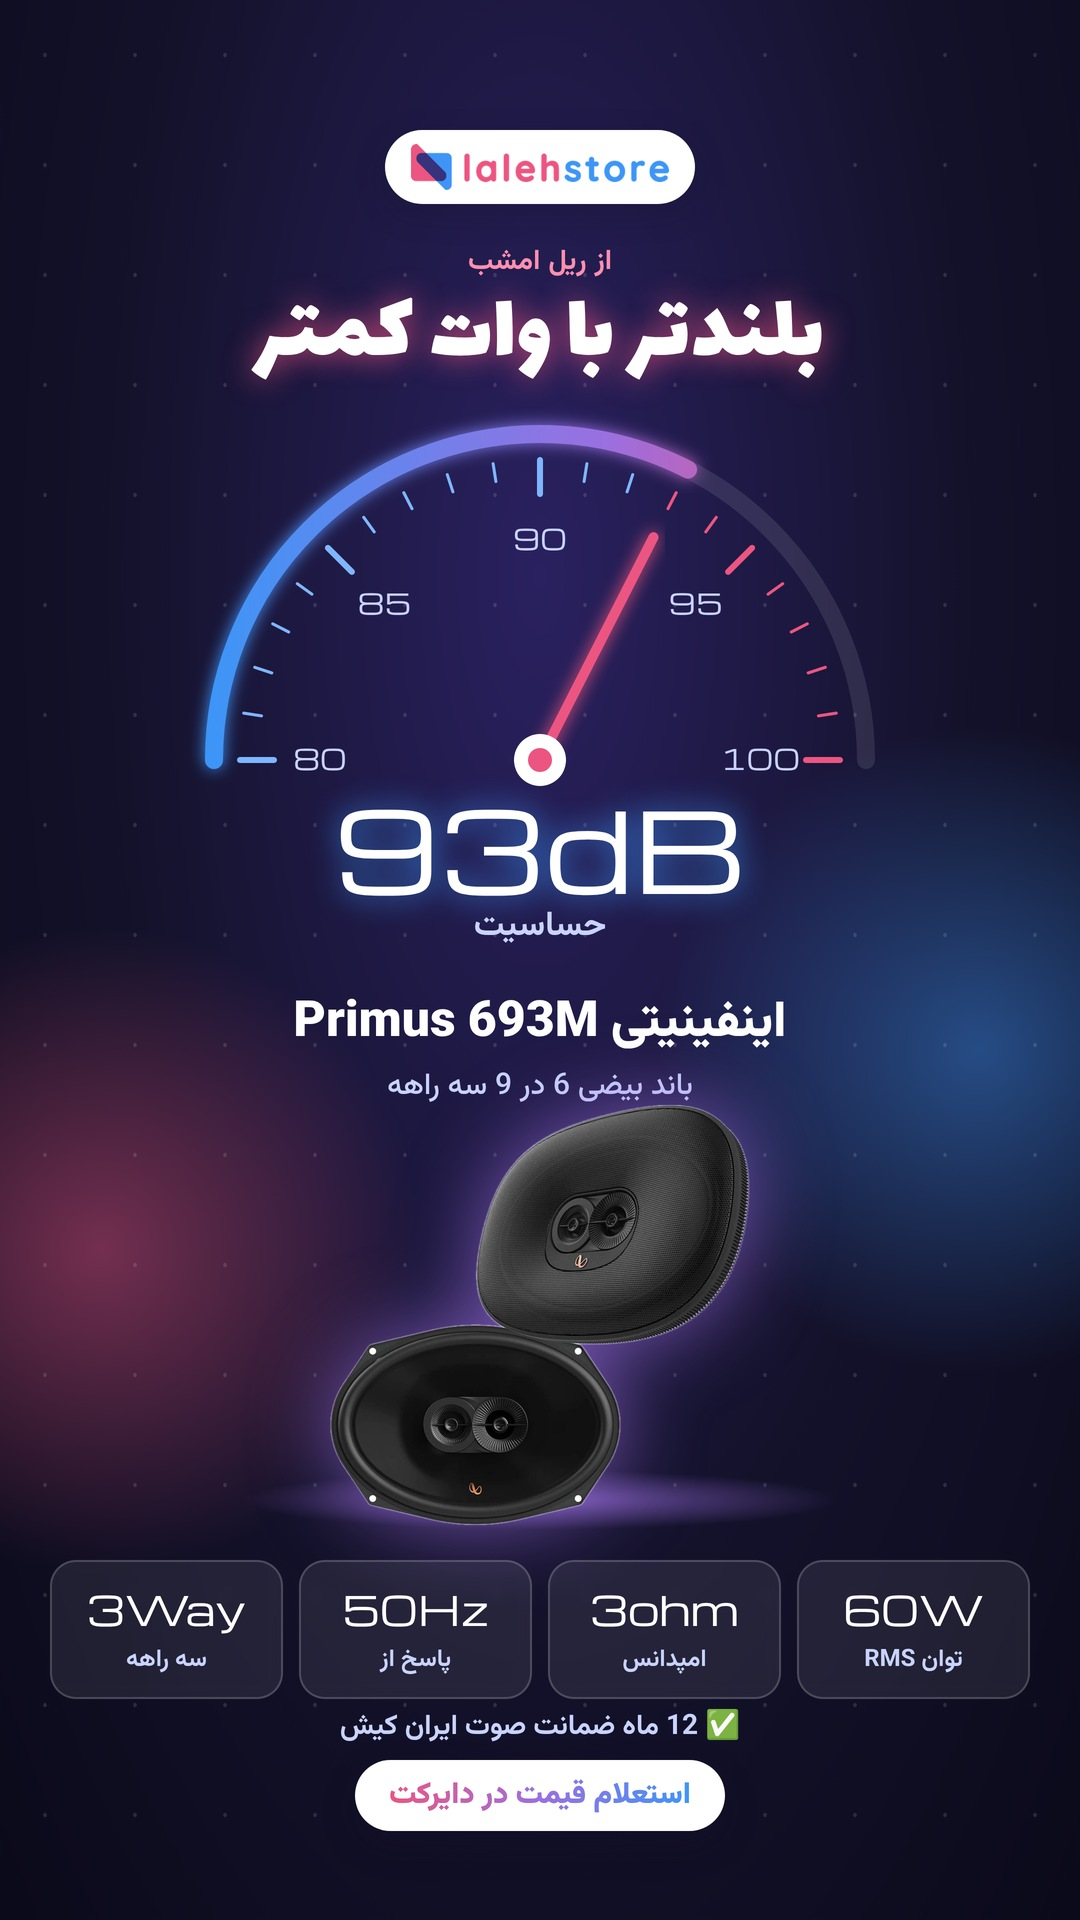
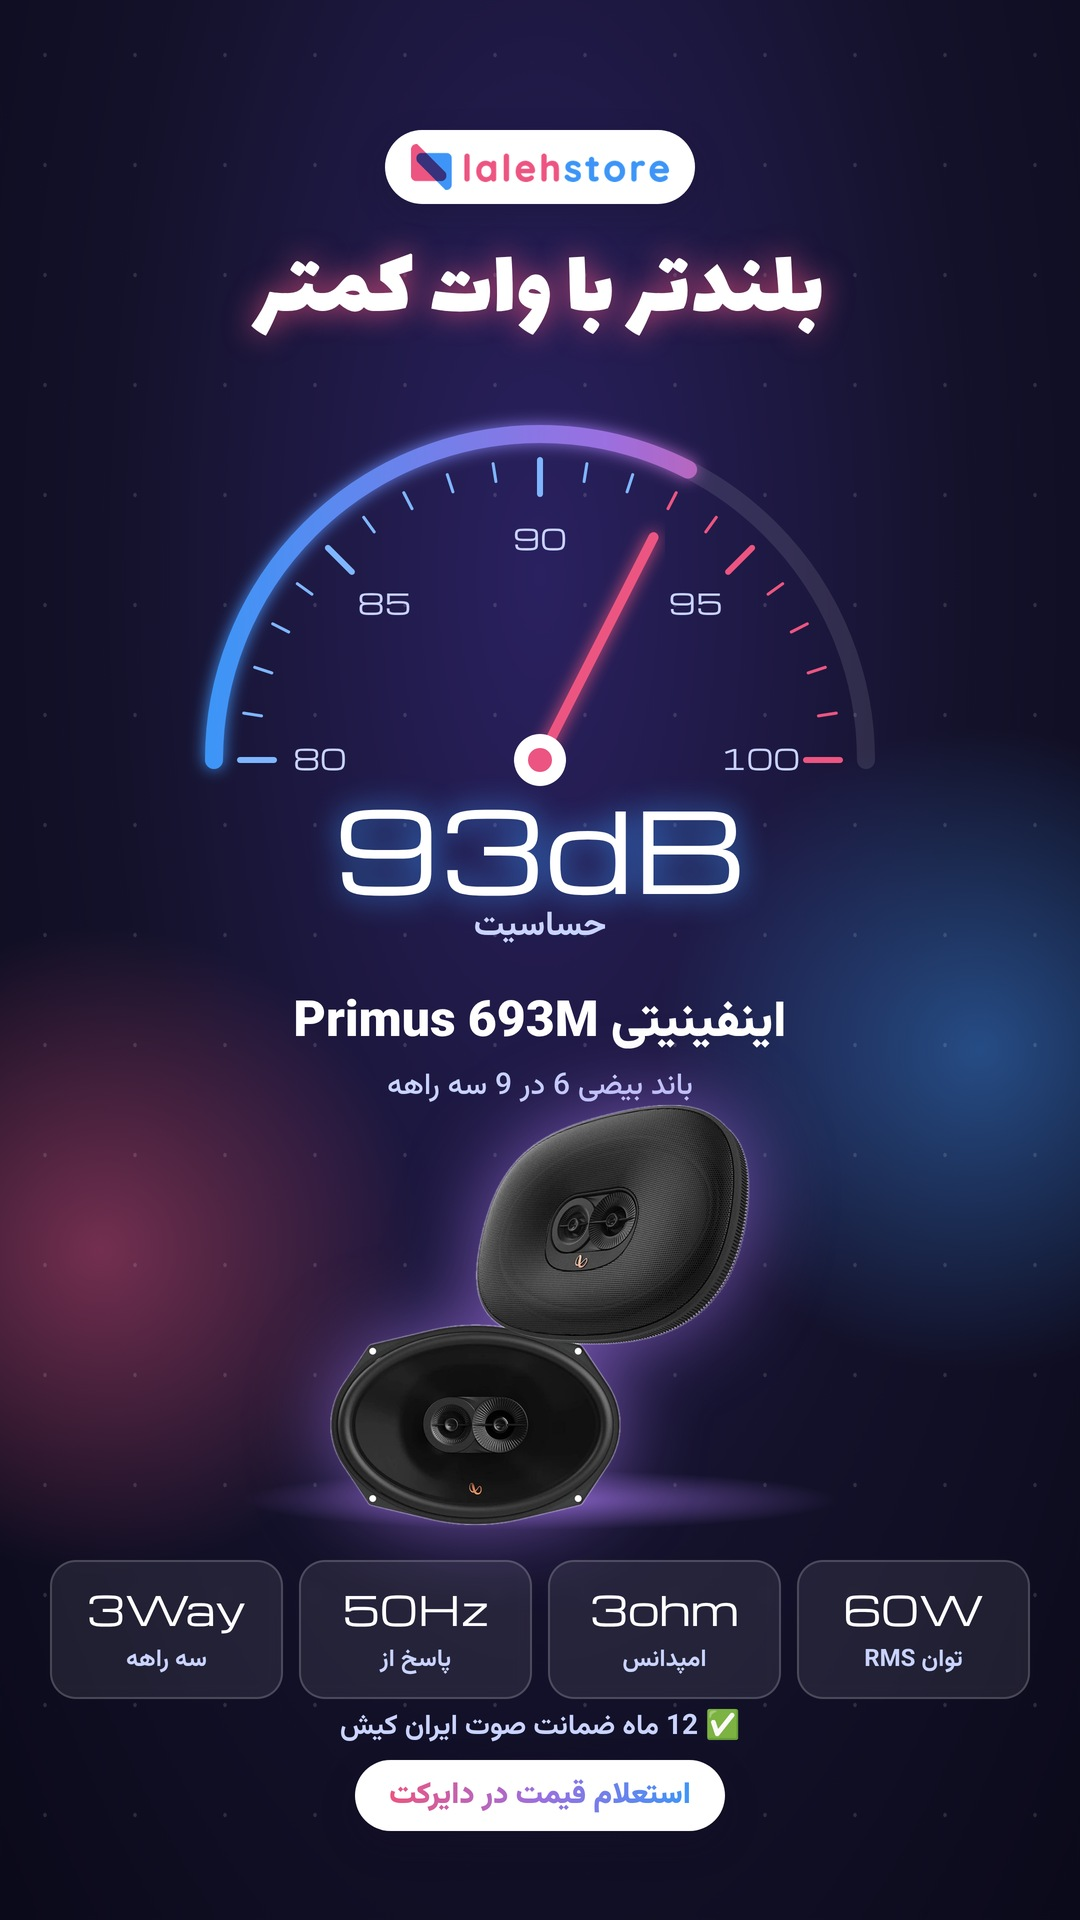
creative.py: no «از ریل امشب» tag, brand+model line on poster
Claude-Session: https://claude.ai/code/session_01MPeMabhRjJD1mwpHJnKS8t

Changed region(s): [[0.2139, 0.125, 0.7639, 0.2188]]

diff --git a/tools/creative.py b/tools/creative.py
@@ -13,7 +13,7 @@ each tied to the day's reel:
 Spec JSON:
 {
  "style": "poster" | "versus" | "night",
- "tag": "از ریل امشب",
+ "tag": "",               # optional small pill; leave empty (Mohammad 2026-11-15: no «از ریل امشب»)
  "headline": "بلندتر با وات کمتر",          # short, Persian, max ~4 words
  "sub": "باند بیضی 6 در 9 سه راهه",
  "products": [ {"img": "a.png", "brand": "اینفینیتی", "model": "Primus 693M",
@@ -107,14 +107,15 @@ def poster(sp, P):
 <div class="abs" style="width:1000px;height:1000px;border-radius:50%;right:-420px;bottom:-200px;background:radial-gradient(circle,rgba(20,18,43,.35),transparent 65%)"></div>
 <div class="grain"></div>
 {logo_bar(150)}
-<div class="abs" style="top:290px;left:0;right:0;text-align:center;color:#fff">
-  <span style="display:inline-block;border:3px solid #fff;border-radius:40px;padding:6px 26px;font-weight:700;font-size:30px">{t(sp.get("tag", ""))}</span>
-  <div style="font-family:L;font-size:150px;line-height:1.05;margin-top:18px;text-shadow:0 10px 30px rgba(20,18,43,.3)">{t(sp["headline"])}</div>
-  <div style="font-weight:700;font-size:38px;opacity:.95;margin-top:6px">{t(sp["sub"])}</div>
+<div class="abs" style="top:270px;left:0;right:0;text-align:center;color:#fff">
+  {('<span style="display:inline-block;border:3px solid #fff;border-radius:40px;padding:6px 26px;font-weight:700;font-size:30px">' + t(sp["tag"]) + "</span>") if sp.get("tag") else ""}
+  <div style="font-family:L;font-size:140px;line-height:1.05;margin-top:0;text-shadow:0 10px 30px rgba(20,18,43,.3)">{t(sp["headline"])}</div>
+  <div style="font-weight:900;font-size:46px;margin-top:4px">{t(p_brand(sp))}</div>
+  <div style="font-weight:700;font-size:32px;opacity:.9;margin-top:2px">{t(sp["sub"])}</div>
 </div>
 <div class="abs" style="top:640px;left:0;right:0;text-align:center;font-family:M;font-size:250px;line-height:1;
   color:transparent;-webkit-text-stroke:5px rgba(255,255,255,.75);letter-spacing:-6px;direction:ltr">{html.escape(big["v"])}</div>
-<div class="abs" style="top:600px;left:0;right:0;text-align:center"><span style="background:var(--ink);color:#fff;font-weight:900;font-size:32px;padding:6px 26px;border-radius:14px">{t(big["k"])}</span></div>
+<div class="abs" style="top:615px;left:0;right:0;text-align:center"><span style="background:var(--ink);color:#fff;font-weight:900;font-size:32px;padding:6px 26px;border-radius:14px">{t(big["k"])}</span></div>
 <img src="{p}" class="abs" style="left:250px;top:760px;width:580px;transform:rotate(-8deg);filter:drop-shadow(0 50px 50px rgba(20,18,43,.45))">
 <div class="abs" style="top:1345px;left:-60px;width:1200px;transform:rotate(-5deg);background:var(--ink);color:#fff;padding:14px 0;white-space:nowrap;overflow:hidden;font-family:M;font-size:30px;direction:ltr;letter-spacing:2px">{tick}</div>
 {stick}
@@ -144,7 +145,7 @@ def versus(sp, P):
 <div class="grain"></div>
 {logo_bar(140)}
 <div class="abs" style="top:250px;right:60px;color:#fff;text-align:right">
-  <div style="font-weight:700;font-size:30px;opacity:.9">{t(sp.get("tag", ""))}</div>
+  <div style="font-weight:700;font-size:30px;opacity:.9">{t(sp["tag"]) if sp.get("tag") else ""}</div>
   <div style="font-family:L;font-size:96px;line-height:1.05">{t(a["brand"])}</div>
   <div style="font-family:M;font-size:42px">{html.escape(a["model"])}</div></div>
 <img src="{P[0]}" class="abs" style="left:40px;top:250px;width:520px;transform:rotate(-10deg);filter:drop-shadow(0 30px 30px rgba(20,18,43,.4))">
@@ -202,7 +203,7 @@ def night(sp, P):
 <div class="abs" style="inset:0;background-image:radial-gradient(rgba(255,255,255,.5) 1.5px,transparent 2px);background-size:90px 110px;opacity:.25"></div>
 {logo_bar(130)}
 <div class="abs" style="top:240px;left:0;right:0;text-align:center;color:#fff">
-  <span style="font-weight:700;font-size:28px;color:#ff8fb0;letter-spacing:1px">{t(sp.get("tag", ""))}</span>
+  <span style="font-weight:700;font-size:28px;color:#ff8fb0;letter-spacing:1px">{t(sp["tag"]) if sp.get("tag") else ""}</span>
   <div style="font-family:L;font-size:96px;line-height:1.1;text-shadow:0 0 30px rgba(236,85,129,.8)">{t(sp["headline"])}</div></div>
 <svg class="abs" style="left:0;top:0" width="1080" height="1000" viewBox="0 0 1080 1000">
   <defs><linearGradient id="ng" x1="0" x2="1"><stop offset="0" stop-color="#3E95F7"/><stop offset=".6" stop-color="#9B6FE0"/><stop offset="1" stop-color="#EC5581"/></linearGradient>
